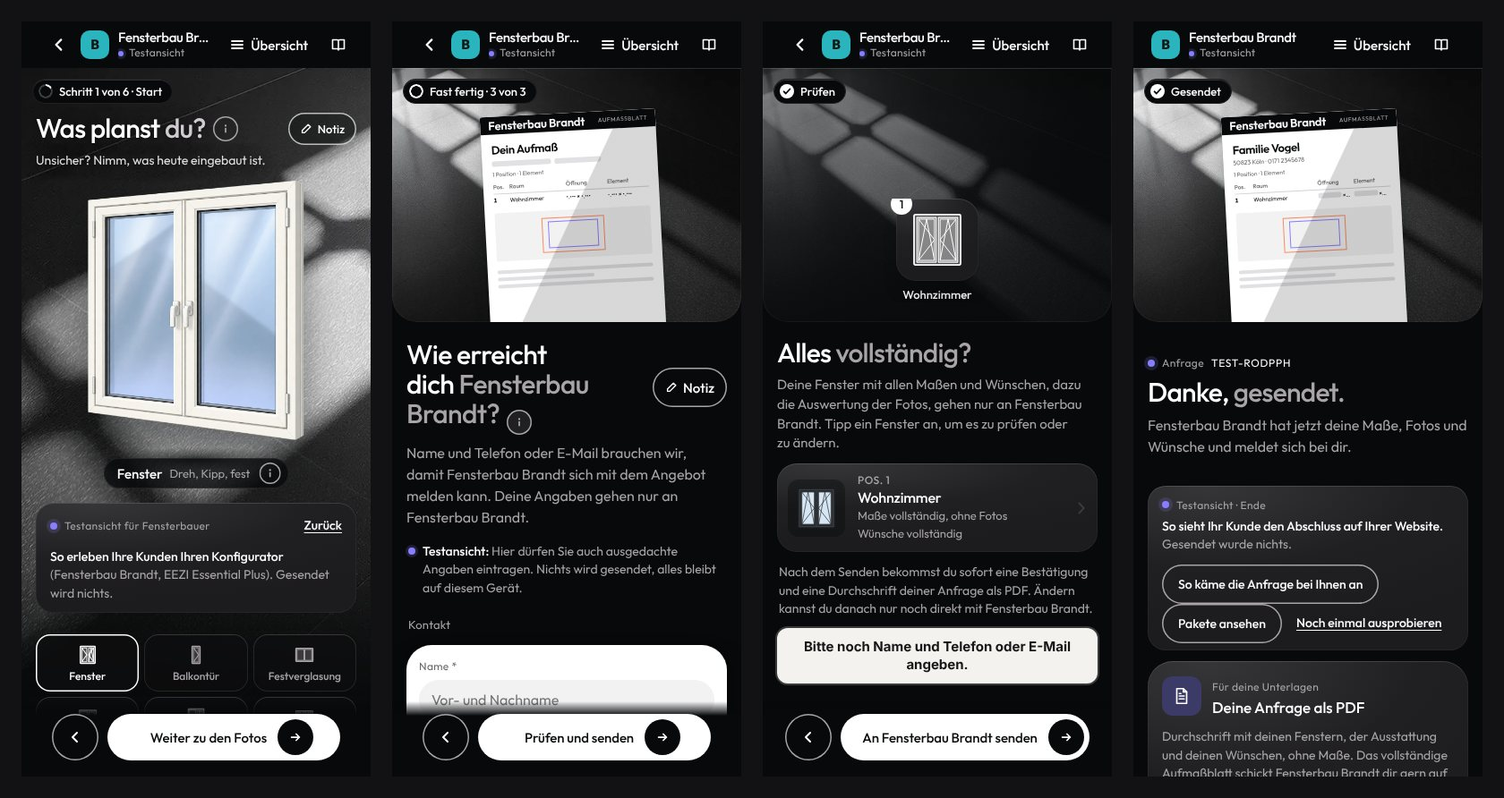
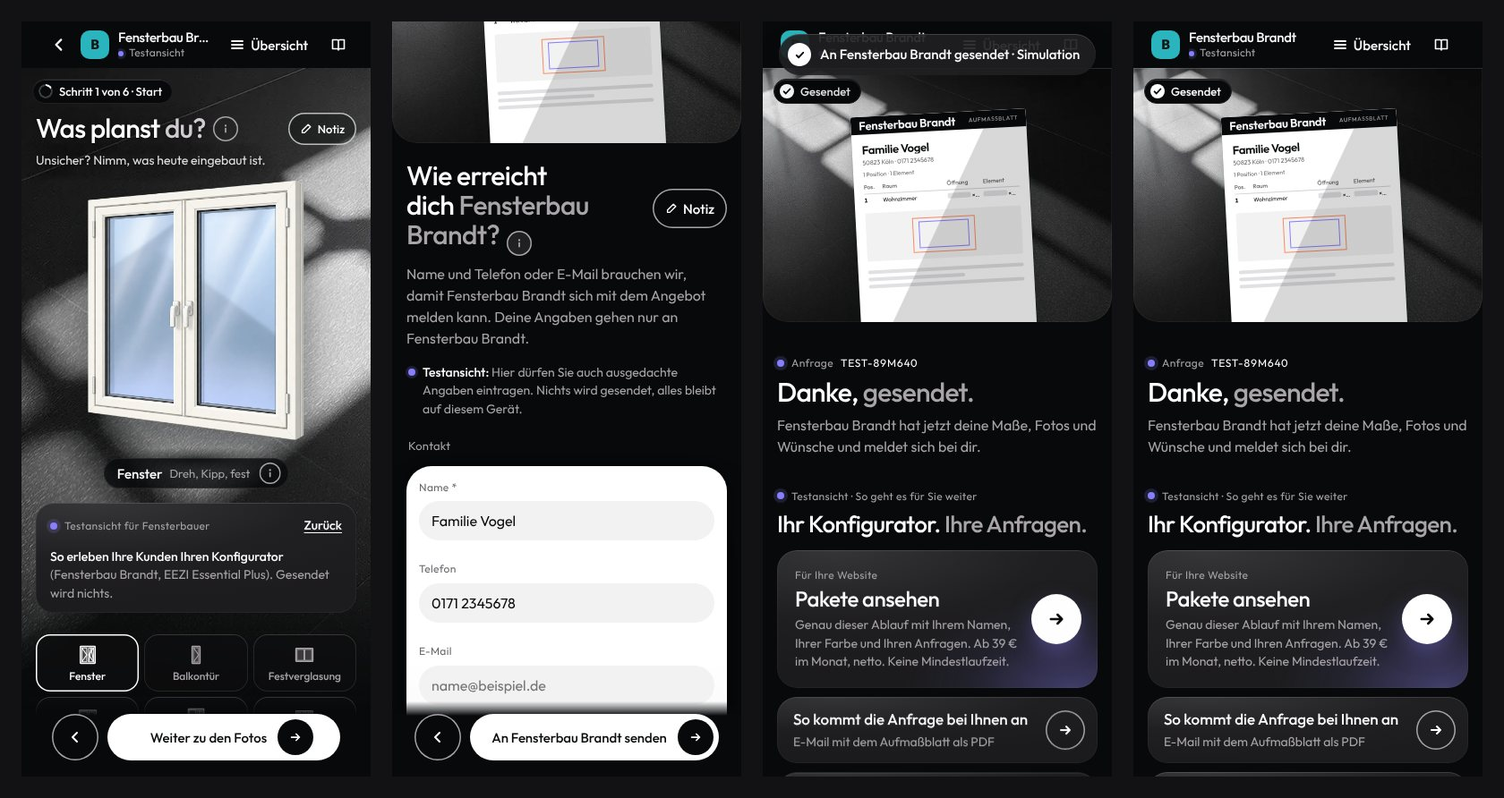
Kontakt ist die letzte Folie, Versandmeldung, Auswahl für Fensterbauer am Ende
- Website einer Instanz: Die Kontaktfolie sendet direkt („An <Betrieb> senden“);
  fehlende Maße, angefangenes Fenster und was danach kommt stehen auf ihr
  (Inhaber: „Eigentlich ist das hier die letzte Folie“)
- Nach dem Senden „Wird gesendet …“ und eine Versandmeldung als Glas-Chip oben
- Testansicht, Ende: „Ihr Konfigurator. Ihre Anfragen.“ mit großer Karte
  „Pakete ansehen“ (#pakete, Preis aus pakete.js), „So kommt die Anfrage bei
  Ihnen an“, „Noch einmal ausprobieren“; „Fertig“ führt zu den Paketen
- Prüfungen 25.2 und 25.11 angepasst, Doku und Protokoll nachgezogen

Claude-Session: https://claude.ai/code/session_0184P5fGdniWcDaYecSm6W1G

Changed region(s): [[0.2476, 0.0, 0.9905, 0.9989], [0.8357, 0.454, 0.8667, 0.4843]]

diff --git a/web/assets/app.js b/web/assets/app.js
@@ -3155,7 +3155,7 @@ function startDna() {
     OPT.situation.map((x) => { const an = (x.k === 'neu') === neu; return '<button type="button" role="radio" data-act="situation" data-v="' + x.k + '" aria-checked="' + an + '" tabindex="' + (an ? 0 : -1) + '">' + esc(x.label) + '</button>'; }).join('') + '</div>' +
     '<p class="st-stelle-text" aria-live="polite">' + ST_STELLE[neu ? 'neu' : 'ersatz'] + (neu ? ' <button type="button" class="ulink" data-act="gloss" data-k="neuoeffnung">Mehr erfahren</button>' : '') + '</p></div></div>';
   const fuss = '<div class="lg-fuss"><button type="button" class="lg-zurueck" data-act="back" aria-label="Zurück: Aufmaß">' + LG_PFEIL_L + '</button><button type="button" class="dna-pille lg-weiter" data-act="go" data-v="fotos">Weiter zu den Fotos' + pfeil + '</button></div>';
-  return { html: '<svg class="st-sprite" width="0" height="0" aria-hidden="true" focusable="false">' + ST_ZEICHEN + '</svg>' + lgKopf(['back', 'Zurück: Aufmaß']) + '<div class="st-tisch">' + buehne + '<div class="st-rechts">' + probeInfo('start') + bento + stelle + rechtLinks() + fuss + '</div></div>', back: ['Aufmaß', 'home'], dna: true, cls: 'dna st', voll: true };
+  return { html: '<svg class="st-sprite" width="0" height="0" aria-hidden="true" focusable="false">' + ST_ZEICHEN + '</svg>' + lgKopf(['back', 'Zurück: Aufmaß']) + '<div class="st-tisch">' + buehne + '<div class="st-rechts">' + probeInfo() + bento + stelle + rechtLinks() + fuss + '</div></div>', back: ['Aufmaß', 'home'], dna: true, cls: 'dna st', voll: true };
 }
 /* Nach dem Zeichnen: Wechsel erst einblenden, wenn das neue Bild bereit ist; Wischen an die Bühne binden */
 function stZeigen() {
@@ -5662,7 +5662,7 @@ function sheetsHTML() {
   if (S.fotoGross) return fotoBlatt();
   if (S.notiz) return notizBlatt();
   if (S.verlassen) return verlassenBlatt();
-  if (S.sendeFrage && S.screen === 'blatt') return sendeFrageBlatt();
+  if (S.sendeFrage && (S.screen === 'blatt' || S.screen === 'anfrage3')) return sendeFrageBlatt();
   if (S.gloss && GLOSS[S.gloss]) return glossBlatt();
   if (S.glossIndex) return glossIndexBlatt();
   if (S.wohin) return wohinBlatt();
@@ -7082,6 +7082,7 @@ function act(name, el) {
     case 'inst-geraet': { S.instGeraet = !S.instGeraet; return render(); }
     case 'inst-link-kopieren': { const t = instWeiterLink(); try { navigator.clipboard.writeText(t).then(() => toast('Link kopiert.'), () => toast('Kopieren geht hier nicht. Bitte den Link markieren und kopieren.')); } catch (e) { toast('Kopieren geht hier nicht. Bitte den Link markieren und kopieren.'); } return; }
     case 'inst-link-teilen': { const t = instWeiterLink(); if (navigator.share) { navigator.share({ title: 'Fensterplanung bei ' + (INST.name || ''), url: t }).catch(() => {}); return; } return toast('Teilen geht hier nicht. Bitte den Link kopieren.'); }
+    case 'kontakt-senden': { const f = kontaktPruefen(); if (f.fehlt) { S.kontaktFehler = Object.assign(f, { alle: true }); render(); const el = document.querySelector('.trow.bad input'); if (el) try { el.focus(); } catch (e) { /* ok */ } return toast('Bitte noch Name und Telefon oder E-Mail angeben.'); } S.kontaktFehler = null; return act('send', el); } // Kontakt ist die letzte Folie (Instanz, Website)
     case 'kontakt-weiter': { const f = kontaktPruefen(); if (f.fehlt) { S.kontaktFehler = Object.assign(f, { alle: true }); render(); const el = document.querySelector('.trow.bad input'); if (el) try { el.focus(); } catch (e) { /* ok */ } return toast('Bitte noch Name und Telefon oder E-Mail angeben.'); } S.kontaktFehler = null; return go('blatt'); }
     case 'open': return fensterOeffnen(+el.getAttribute('data-i'));
     case 'delwin': { if (!linkOffen()) return; if (S.editIdx < 0 || !S.windows[S.editIdx]) { S.editIdx = -1; go('home', 'back'); return toast('Dieses Fenster gibt es nicht mehr.'); } const weg = S.windows[S.editIdx]; if (weg.wid) { S.sync.geloescht[weg.wid] = zeit(); const alle = Object.keys(S.sync.geloescht); if (alle.length > 200) alle.sort((a, b) => S.sync.geloescht[a] - S.sync.geloescht[b]).slice(0, alle.length - 200).forEach((k) => { delete S.sync.geloescht[k]; }); } S.angelegt = angelegt(); S.windows.splice(S.editIdx, 1); S.editIdx = -1; persist(); entwurfWeg(weg.wid); Fotos.weg(bilderVon(weg).filter((id) => !S.windows.some((x) => bilderVon(x).includes(id)))); toast('Fenster gelöscht'); return go('home', 'back'); }
@@ -7714,7 +7715,9 @@ function kontaktFeld(label, field, ph, mode, auto, fehler, pflicht) {
 }
 /* Kontakt auf der Website einer Instanz im Look der Design-DNA (28.10.2026, Inhaber: „Das passt ja nicht überein. Nimm das neue Design“):
    wie anfrage3Dna (Bühne mit dem Blatt, das sich beim Tippen füllt, Kopfband mit dem Namen des Betriebs), aber mit Pflicht: Name und
-   Telefon oder E-Mail (kontaktPruefen, Fehler am Feld), „Prüfen und senden“ (kontakt-weiter). Texte und Prüfung wie bisher */
+   Telefon oder E-Mail (kontaktPruefen, Fehler am Feld). Sie ist die letzte Folie (Inhaber: „Eigentlich ist das hier die letzte Folie und
+   da sollte stehen: an Fensterbauer schicken“; die DNA kennt keine Zwischenschritte, die nur bestätigen): Die Pille sendet
+   (kontakt-senden); was „Prüfen und senden“ zeigte, steht hier: Fenster ohne vollständige Maße, angefangenes Fenster, was danach kommt */
 function instAnfrage3() {
   const pr = S.proj, d = lkDaten(), bn = d.name, C = window.KONFIG || {};
   const f = S.kontaktFehler ? Object.assign(kontaktPruefen(), { alle: true }) : {};
@@ -7723,7 +7726,12 @@ function instAnfrage3() {
   const karte = '<div class="qpanel ab-panel"><div class="ab-teil">' + abKopf('Kontakt') + '<div class="rows ab-felder kontakt-felder">' + kontaktFeld('Name', 'name', 'Vor- und Nachname', 'text', 'name', f.name, true) + kontaktFeld('Telefon', 'tel', 'Für Rückfragen', 'tel', 'tel', f.tel || !!f.weg, false) + kontaktFeld('E-Mail', 'mail', 'name@beispiel.de', 'email', 'email', f.mail || f.weg, false) +
     kontaktFeld('PLZ und Ort', 'ort', 'z. B. 50667 Köln', 'text', 'postal-code address-level2', '', false) + '</div><p class="ab-pflicht">* Pflicht. Dazu Telefon oder E-Mail, eins genügt. Mehr im <a class="ulink" href="' + esc(C.datenschutz || '/datenschutz/') + '" target="_blank" rel="noopener">Datenschutz</a>.</p></div>' +
     '<div class="ab-teil">' + abKopf('Am besten erreichbar · freiwillig') + chips('erreich', pr.erreich, 'erreich', 'setp') + '</div></div>';
-  return { html: lgKopf(['back', 'Zurück: Zeit und Budget']) + dnaTisch(abBuehne('ab-blatt', anfrageHead(3, true), abPapier(false, false, bn)), frage + probe + karte + abFuss('Zurück: Zeit und Budget', 'kontakt-weiter', '', 'Prüfen und senden')), back: ['Zurück', 'anfrage2'], dna: true, cls: 'dna ab dt', voll: true };
+  const voll = S.windows.filter((x) => derive(x).complete).length, fehlt = S.windows.length - voll;
+  const hinweis = (fehlt ? '<p class="ab-note">' + (voll ? fehlt + (fehlt === 1 ? ' Fenster hat' : ' Fenster haben') + ' noch keine vollständigen Maße. ' + anr('Sie können', 'Du kannst') + ' trotzdem senden, ' + esc(bn) + ' sieht dann, was fehlt.' : anr('Noch kein Fenster ist vollständig gemessen. Tragen Sie die fehlenden Maße nach, dann können Sie senden.', 'Noch kein Fenster ist vollständig gemessen. Trag die fehlenden Maße nach, dann kannst du senden.')) + ' <button type="button" class="ulink" data-act="go" data-v="home">Fenster ansehen</button></p>' : '') + entwurfWarnung() +
+    '<p class="ab-danach">' + anr('Nach dem Senden bekommen Sie', 'Nach dem Senden bekommst du') + ' sofort eine Bestätigung' + (INST_M.kopieKunde ? anr(' und eine Durchschrift Ihrer Anfrage als PDF', ' und eine Durchschrift deiner Anfrage als PDF') : '') + '. ' + anr('Ändern können Sie', 'Ändern kannst du') + ' danach nur noch direkt mit ' + esc(bn) + '.</p>';
+  const wartet = S.kiWartet === 'senden', label = wartet ? esc(S.warteText || 'Einen Moment …') : 'An ' + esc(bn) + ' senden';
+  const fuss = rechtLinks() + '<div class="lg-fuss"><button type="button" class="lg-zurueck" data-act="back" aria-label="Zurück: Zeit und Budget">' + LG_PFEIL_L + '</button><button type="button" class="dna-pille lg-weiter btn primary" data-act="kontakt-senden"' + (wartet ? ' disabled aria-busy="true"' : '') + '>' + label + (wartet ? '' : abPfeil) + '</button></div>';
+  return { html: lgKopf(['back', 'Zurück: Zeit und Budget']) + dnaTisch(abBuehne('ab-blatt', anfrageHead(3, true), abPapier(false, false, bn)), frage + probe + karte + hinweis + fuss), back: ['Zurück', 'anfrage2'], dna: true, cls: 'dna ab dt', voll: true };
 }
 /* „Auf anderem Gerät weitermachen“: dieselbe Planung über https://<host>/#k-<code> */
 const instWeiterLink = () => location.origin + '/#k-' + (S.betrieb ? S.betrieb.code : '');
@@ -7743,12 +7751,27 @@ function probeEinstieg() {
   if (S.sent) instanzVergessen(true);
   if (entwurfLesen()) entwurfFortsetzen(); else act('new', document.body);
 }
-/* Infobereich der Testansicht in der Folie selbst: auf der ersten Folie („start“) und auf der Bestätigung („ende“) */
-function probeInfo(art) {
+/* Infobereich der Testansicht in der ersten Folie */
+function probeInfo() {
   if (!PROBE) return '';
-  if (art === 'ende') return '<section class="probe-info" aria-label="Testansicht für Fensterbauer"><span class="dna-label">Testansicht · Ende</span><p><b>So sieht Ihr Kunde den Abschluss auf Ihrer Website.</b> Gesendet wurde nichts.</p>' +
-    '<div class="probe-info-knoepfe"><button type="button" class="dna-pille dna-pille--leise" data-act="probe-betrieb">So käme die Anfrage bei Ihnen an</button><a class="dna-pille dna-pille--leise" href="' + PROBE_FB + '#pakete">Pakete ansehen</a><button type="button" class="probe-info-link" data-act="probe-neu">Noch einmal ausprobieren</button></div></section>';
   return '<section class="probe-info kurz" aria-label="Testansicht für Fensterbauer"><div class="probe-info-zeile"><span class="dna-label">Testansicht für Fensterbauer</span><a class="probe-info-link" href="' + PROBE_FB + '" aria-label="Zurück zur Seite für Fensterbauer">Zurück</a></div><p><b>So erleben Ihre Kunden Ihren Konfigurator</b> (Fensterbau Brandt, ' + esc(probePaketName()) + '). Gesendet wird nichts.</p></section>';
+}
+/* Testansicht, Ende (Inhaber, 28.10.2026: „Auswahlmöglichkeiten, wie man jetzt weitermacht, visuell ansprechend, dass die Fensterbauer
+   animiert werden, zu den Paketen zu kommen“): unter „Danke, gesendet.“ drei Karten für den Fensterbauer, die erste groß mit Licht und
+   rundem Knopf zur Seite für Fensterbauer (#pakete, Preis aus pakete.js), dann „So kommt die Anfrage bei Ihnen an“ (E-Mail und
+   Aufmaßblatt) und „Noch einmal ausprobieren“. Nach dem Senden treten sie nacheinander auf (einmal, nicht bei jedem Neuzeichnen). */
+function probeWahl(frisch) {
+  if (!PROBE) return '';
+  const P = window.Pakete; let ab = '';
+  try { const m = Math.min.apply(null, P.LISTE.map((k) => P.preis(k).monat)); if (isFinite(m)) ab = 'Ab ' + P.euro(m) + ' im Monat, netto. '; } catch (e) { ab = ''; }
+  const pfeil = '<svg viewBox="0 0 16 16" fill="none" stroke="currentColor" stroke-width="2" stroke-linecap="round" stroke-linejoin="round"><path d="M3 8h10M9 4l4 4-4 4"/></svg>';
+  const neu = '<svg viewBox="0 0 16 16" fill="none" stroke="currentColor" stroke-width="1.8" stroke-linecap="round" stroke-linejoin="round"><path d="M2.8 8a5.2 5.2 0 1 0 1.6-3.8"/><path d="M2.6 2.4v2.8h2.8"/></svg>';
+  const karte = (i, tag, attr, cls, klein, titel, text, knopf) => '<' + tag + ' class="pw-karte' + cls + '" ' + attr + ' style="--i: ' + i + '"><span class="pw-text">' + (klein ? '<small>' + klein + '</small>' : '') + '<b>' + titel + '</b><span>' + text + '</span></span><span class="pw-knopf" aria-hidden="true">' + knopf + '</span></' + tag + '>';
+  return '<section class="probe-wahl' + (frisch ? ' auftritt' : '') + '" aria-label="So geht es für Sie weiter"><span class="dna-label">Testansicht · So geht es für Sie weiter</span><h2>Ihr Konfigurator. <span class="ak">Ihre Anfragen.</span></h2>' +
+    karte(0, 'a', 'href="' + PROBE_FB + '#pakete"', ' pw-haupt', 'Für Ihre Website', 'Pakete ansehen', 'Genau dieser Ablauf mit Ihrem Namen, Ihrer Farbe und Ihren Anfragen. ' + esc(ab) + 'Keine Mindestlaufzeit.', pfeil) +
+    karte(1, 'button', 'type="button" data-act="probe-betrieb"', '', '', 'So kommt die Anfrage bei Ihnen an', 'E-Mail mit dem Aufmaßblatt als PDF', pfeil) +
+    karte(2, 'button', 'type="button" data-act="probe-neu"', '', '', 'Noch einmal ausprobieren', 'Von vorn, mit einem neuen Fenster', neu) +
+    '<p class="pw-fuss">Gesendet wurde nichts. Darunter sehen Sie den Abschluss so, wie ihn Ihr Kunde sieht.</p></section>';
 }
 /* Startseite einer Instanz in allen Zuständen (erste Seite, Liste, gesendet, Planung nicht mehr da, Nachbesserung einer Einladung) */
 function instHome() {
@@ -7806,9 +7829,14 @@ function instZuSeite() {
    verlässt das Gerät. Danach zwei Ansichten auf derselben Folie (sonst räumt render die Planung weg, instanzKuerzen): erst die
    Bestätigung, wie sie der Kunde sieht, dann, wie die Anfrage beim Betrieb ankommt (E-Mail mit dem Aufmaßblatt als PDF). */
 function probeSenden() {
-  S.sent = { when: Date.now(), code: packProject(S.windows, S.proj, S.betrieb), runde: 1, uebertragen: true, nr: 'TEST-' + String(S.betrieb.code || '').slice(1, 7).toUpperCase(), art: 'probe' };
-  S.nb = null; S._feier = 'gesendet'; S.toast = ''; clearTimeout(toastTimer); S.probeSicht = 'kunde';
-  persist(); go('gesendet');
+  if (S.kiWartet) return;
+  S.kiWartet = 'senden'; S.warteText = 'Wird gesendet …'; render(); // wie beim echten Senden ein kurzer Moment
+  setTimeout(() => {
+    S.kiWartet = ''; S.warteText = '';
+    S.sent = { when: Date.now(), code: packProject(S.windows, S.proj, S.betrieb), runde: 1, uebertragen: true, nr: 'TEST-' + String(S.betrieb.code || '').slice(1, 7).toUpperCase(), art: 'probe' };
+    S.nb = null; S._feier = 'gesendet'; S.toast = ''; clearTimeout(toastTimer); S.probeSicht = 'kunde'; S.sendMeldung = Date.now();
+    persist(); go('gesendet');
+  }, 700);
 }
 function probeGesendet() {
   if (!S.sent || S.sent.kurz) return instHome();
@@ -7871,8 +7899,12 @@ function instGesendet() {
     (tel || mail ? '<div class="gs-k-reihe">' + (tel ? rund('tel:' + telH, IC_TEL, tel) : '') + (mail ? rund('mailto:' + mail, IC_MAIL, mail) : '') + '</div>' : '<p>' + esc(name) + T(' meldet sich nach Ihrer Anfrage bei Ihnen.', ' meldet sich nach deiner Anfrage bei dir.') + '</p>') + '</section>';
   const geraet = '<section class="gs-geraet"><span class="dna-label">Auf diesem Gerät</span><p>' + T('Sobald Sie diese Seite verlassen oder schließen, löschen wir Maße, Fotos und Kontaktdaten von diesem Gerät. Es bleiben nur Nummer und Datum Ihrer Anfrage.', 'Sobald du diese Seite verlässt oder schließt, löschen wir Maße, Fotos und Kontaktdaten von diesem Gerät. Es bleiben nur Nummer und Datum deiner Anfrage.') + '</p>' +
     '<div class="gs-geraet-knoepfe"><button type="button" class="dna-pille dna-pille--leise" data-act="inst-weitere">Weitere Anfrage starten</button><button type="button" class="probe-info-link" data-act="inst-vergessen">Jetzt von diesem Gerät löschen</button></div><p class="gs-bleibt">' + T('Ihre Anfrage bei ', 'Deine Anfrage bei ') + esc(name) + ' bleibt bestehen.</p></section>';
-  const fertig = PROBE ? '<a class="dna-pille dna-pille--leise" href="' + PROBE_FB + '">Fertig</a>' : '<button type="button" class="dna-pille dna-pille--leise" data-act="go" data-v="home">Fertig</button>';
-  const inhalt = titel + testNote + probeInfo('ende') + pdf + weiter + kontakt + geraet;
+  const fertig = PROBE ? '<a class="dna-pille dna-pille--leise" href="' + PROBE_FB + '#pakete">Fertig</a>' : '<button type="button" class="dna-pille dna-pille--leise" data-act="go" data-v="home">Fertig</button>';
+  /* Versandmeldung oben (Inhaber: „dann sollte da diese Benachrichtigung stehen, dass es versandt wurde“): drei Sekunden nach dem Senden,
+     über Neuzeichnen hinweg an derselben Stelle der Animation (--seit) */
+  const seit = S.sendMeldung ? Date.now() - S.sendMeldung : 1e9;
+  const meldung = seit < 3000 ? '<div class="gs-meldung" role="status" style="--seit: -' + seit + 'ms"><span class="gs-meldung-haken" aria-hidden="true"><svg viewBox="0 0 12 12"><path d="M2.6 6.3l2.2 2.2 4.6-5" fill="none" stroke="currentColor" stroke-width="1.8" stroke-linecap="round" stroke-linejoin="round"/></svg></span><span>An ' + esc(name) + ' gesendet' + (PROBE ? ' · Simulation' : '') + '</span></div>' : '';
+  const inhalt = meldung + titel + testNote + probeWahl(seit < 3000) + pdf + weiter + kontakt + geraet;
   return { html: lgKopf(false) + dnaTisch(buehne, '<div class="ab-inhalt">' + inhalt + '<div class="gs-fuss">' + fertig + '</div></div>' + rechtLinks()), dna: true, cls: 'dna ab ab2 dt gs', voll: true, bar: null };
 }
 /* Logo der Instanz fürs PDF: Bild von /marke/<v>/logo.png als Data-URL mit Maßen */
@@ -8023,7 +8055,7 @@ async function sendenServer() {
     if (!r || !r.ok) return toast(r && r.fehler ? r.fehler : 'Senden hat nicht geklappt. Bitte gleich noch einmal.');
     clearTimeout(S.sync.timer); S.sync.offen = false;
     S.sent = { when: Date.now(), code: packProject(S.windows, S.proj, S.betrieb), runde: S.nb && S.nb.runde ? S.nb.runde : 1, uebertragen: true }; S.nb = null; S._feier = 'gesendet'; S.toast = ''; clearTimeout(toastTimer);
-    if (INST) { S.sent.nr = String(r.nr || ''); S.sent.art = String(r.art || ''); instGesendetMerken(S.sent.nr, S.sent.when, S.sent.art); }
+    if (INST) { S.sent.nr = String(r.nr || ''); S.sent.art = String(r.art || ''); instGesendetMerken(S.sent.nr, S.sent.when, S.sent.art); S.sendMeldung = Date.now(); }
     persist(); go('gesendet');
   } catch (e) { toast('Keine Verbindung. Bitte gleich noch einmal.'); }
 }

diff --git a/web/assets/app.css b/web/assets/app.css
@@ -3120,6 +3120,42 @@ html.dna-voll .fb .qoffen[aria-pressed="true"] { box-shadow: inset 0 0 0 1.5px v
 .dna.gs .gs-fuss .dna-pille { flex: 1 }
 .dna.gs .gs-bleibt { font-size: 13px }
 .dna.gs .wl-station:first-child .wl-nr { color: var(--weiss); background: none; box-shadow: inset 0 0 0 1.5px var(--silbergrau) } /* nichts ist schon erledigt */
+/* Versandmeldung nach dem Senden: Glas-Chip oben in der Mitte, kommt in 320 ms, steht, geht nach drei Sekunden (einmal je Senden) */
+.dna .gs-meldung { position: fixed; z-index: 30; top: calc(14px + env(safe-area-inset-top, 0px)); left: 0; right: 0; width: max-content; margin-inline: auto; display: flex; align-items: center; gap: 10px; max-width: calc(100% - 32px); padding: 10px 18px 10px 10px; border-radius: 999px; background: rgba(32, 32, 34, .92); color: var(--weiss); font: 500 15px/1.2 var(--font-sans); box-shadow: inset 0 1px 0 rgba(255, 255, 255, .16), 0 18px 40px -16px rgba(0, 0, 0, .9); opacity: 0; pointer-events: none; animation: gsMeldung 3s var(--dna-auftritt) both; animation-delay: var(--seit, 0ms) }
+.dna.ab2 .ab-inhalt > .gs-meldung { margin: 0 auto } /* sonst setzt .ab-inhalt > * den Rand auf 0 und die Meldung steht links */
+.dna .gs-meldung-haken { flex: none; display: grid; place-items: center; width: 26px; height: 26px; border-radius: 50%; background: var(--weiss); color: var(--schwarz) }
+.dna .gs-meldung-haken svg { width: 13px; height: 13px }
+@keyframes gsMeldung { 0% { opacity: 0; transform: translateY(-14px) scale(.96) } 11% { opacity: 1; transform: none } 82% { opacity: 1; transform: none } 100% { opacity: 0; transform: translateY(-6px) } }
+@keyframes gsMeldungRuhig { 0%, 100% { opacity: 0 } 3%, 85% { opacity: 1 } }
+/* Testansicht, Ende: drei Karten für den Fensterbauer, die erste groß mit Licht unter dem Knopf */
+.dna.gs .probe-wahl { display: grid; gap: 10px; margin: 8px 0 4px }
+.dna.gs .probe-wahl .dna-label { display: inline-flex; align-items: center; gap: 8px; font: 400 12px/1.3 var(--font-sans); letter-spacing: .03em; color: var(--silbergrau) }
+.dna.gs .probe-wahl .dna-label::before { content: ""; width: 8px; height: 8px; border-radius: 50%; background: var(--violett); box-shadow: 0 0 0 4px rgba(137, 126, 252, .18) }
+.dna.gs .probe-wahl h2 { margin: 0 0 4px; font: 500 26px/1.1 var(--font-sans); letter-spacing: -.025em; color: var(--weiss) }
+.dna.gs .probe-wahl h2 .ak { color: var(--silbergrau) }
+.dna.gs .pw-karte { position: relative; display: flex; align-items: center; gap: 14px; width: 100%; min-height: 72px; margin: 0; padding: 14px 14px 14px 18px; border: 0; border-radius: 22px; text-align: left; text-decoration: none; color: var(--weiss); font: inherit; cursor: pointer; overflow: hidden;
+  background: radial-gradient(120% 90% at 18% 0%, #363638, var(--anthrazit) 55%, #1c1c1e); box-shadow: inset 0 1px 0 rgba(255, 255, 255, .10), inset 0 0 0 1px rgba(255, 255, 255, .045); transition: transform 160ms var(--dna-druck) }
+.dna.gs .pw-karte:active { transform: scale(.98); transition-duration: 0s }
+.dna.gs .pw-karte:focus-visible { outline: 2px solid var(--weiss); outline-offset: 3px }
+.dna.gs .pw-haupt { min-height: 128px; padding: 20px 18px 20px 20px; background: radial-gradient(70% 90% at 92% 100%, rgba(137, 126, 252, .34), rgba(60, 58, 102, .22) 45%, transparent 75%), radial-gradient(120% 90% at 18% 0%, #363638, var(--anthrazit) 55%, #1c1c1e) }
+.dna.gs .pw-text { flex: 1; display: grid; gap: 4px; min-width: 0 }
+.dna.gs .pw-text small { font: 400 12px/1.3 var(--font-sans); letter-spacing: .03em; color: var(--silbergrau) }
+.dna.gs .pw-text b { font: 500 17px/1.25 var(--font-sans); color: var(--weiss) }
+.dna.gs .pw-haupt .pw-text b { font-size: 24px; letter-spacing: -.02em }
+.dna.gs .pw-text > span { font: 400 14px/1.45 var(--font-sans); color: var(--silbergrau) }
+.dna.gs .pw-knopf { flex: none; display: grid; place-items: center; width: 44px; height: 44px; border-radius: 50%; color: var(--weiss); box-shadow: inset 0 0 0 1.5px var(--silbergrau) }
+.dna.gs .pw-knopf svg { width: 16px; height: 16px }
+.dna.gs .pw-haupt .pw-knopf { width: 56px; height: 56px; background: var(--weiss); color: var(--schwarz); box-shadow: 0 10px 30px -8px rgba(137, 126, 252, .7) }
+.dna.gs .pw-haupt .pw-knopf svg { width: 20px; height: 20px }
+.dna.gs .pw-fuss { margin: 2px 2px 8px; font: 400 13px/1.45 var(--font-sans); color: var(--silbergrau) }
+.dna.gs .probe-wahl.auftritt .pw-karte { animation: pwAuf 460ms var(--dna-auftritt) both; animation-delay: calc(450ms + var(--i, 0) * 90ms) }
+@keyframes pwAuf { from { opacity: 0; transform: translateY(10px) } to { opacity: 1; transform: none } }
+@media (prefers-reduced-motion: reduce) {
+  .dna .gs-meldung { animation-name: gsMeldungRuhig }
+  .dna.gs .probe-wahl.auftritt .pw-karte { animation: none }
+  .dna.gs .pw-karte { transition: none }
+}
+.dna .ab-danach { margin: 14px 4px 0; font: 400 13px/1.45 var(--font-sans); color: var(--silbergrau) }
 /* Kontakt einer Instanz (instAnfrage3): Pflicht und Fehler am Feld */
 .dna .ab-felder .trow .pfl { font-style: normal; color: var(--textgrau) }
 .dna .ab-felder .trow.bad > span, .dna .ab-felder .trow.bad > span .pfl { color: #b5532f }

diff --git a/docs/INSTANZEN.md b/docs/INSTANZEN.md
@@ -323,9 +323,9 @@ Signature: Die Mails an den Betrieb kommen vom neutralen Postfach `MAIL_ABSENDER
 Demo-Instanzen der Verkaufsseite: Custom Domains `demo-essential.eeziframes.com`, `demo-plus.eeziframes.com`, `demo-signature.eeziframes.com` am Worker, in der Zentrale je eine Instanz ohne Bestellung mit Schalter „Demo“ (Anfragen gehen an `MAIL_KONTAKT` und verschwinden nach `FRISTEN.testTage` Tag). Die Verkaufsseite verlinkt sie erst mit der Variable `PAKETE_DEMOS=1`, vorher führt „Konfigurator ausprobieren“ in die App.
 
 
-Testansicht für Fensterbauer (28.10.2026, Wunsch des Inhabers: jeder Weg zum Ausprobieren auf der Seite für Fensterbauer führt in einen Bereich, der erkennbar zum Testen da ist; am Ende der Abschluss, wie ihn der Kunde eines Betriebs mit gebuchtem Paket sieht): „Selbst ausprobieren“ auf der Seite für Fensterbauer und „Konfigurator ausprobieren“ in deren Ratgebern führen auf `/app/?ausprobieren` (Paket Plus), „Fenster planen“ in den drei Paket-Beispielen auf `/app/?ausprobieren=essential|plus|signature` (docs/profis/werkzeuge/paketvorlagen.py, `fuer_web`). Die App läuft dann im Instanz-Modus als Fensterbau Brandt, der erfundene Betrieb der Beispiele, in der Anrede „du“ wie die Folien, mit den öffentlichen Merkmalen des Pakets aus pakete.js (die App lädt dafür /assets/pakete.js) und der Firmenfarbe Aquatürkis, wo das Paket eine Farbe hat (`PROBE`, `PROBE_PAKET` in web/assets/app.js setzen `KONFIG.instanz` vor `INST`), ohne Führung und ohne Kauf. Alles bleibt im Browser: kein `/api/status`, kein Code vom Server (`instanzStart` vergibt ihn auf dem Gerät), kein Zwischenstand, keine Fotos hinauf, KI ohne Code wie auf der Hauptdomain. Sie beginnt gleich auf der ersten Folie „Was planst du?“ (`probeEinstieg`; ein angefangenes Fenster wird fortgesetzt, ein abgeschlossener Test beginnt neu). Erkennbar ist die Testansicht am Infobereich in dieser Folie (`probeInfo('start')`: Beispielbetrieb, Paket, „gesendet wird nichts“, Weg zurück), an „Testansicht“ unter dem Namen im Kopf jeder Folie, an einer Zeile auf der Folie mit den Kontaktdaten und am Eintrag „Testansicht beenden“ in der Übersicht; Bogen und Karten über der Startseite des Betriebs gibt es nicht (Inhaber: „Diese Ansicht will ich nicht“). Senden ist eine Simulation (`probeSenden`, Nummer `TEST-…`); das Ende ist die Bestätigung, wie sie der Kunde sieht (`instGesendet`, seit 28.10.2026 im Look der Design-DNA für alle Instanzen), mit dem Infobereich „Testansicht · Ende“ unter der Überschrift („Pakete ansehen“, „So käme die Anfrage bei Ihnen an“: die E-Mail an den Betrieb mit dem Aufmaßblatt in der Variante `betrieb` als PDF, `probeBlatt`; „Noch einmal ausprobieren“); „Fertig“ führt dort zurück zur Seite für Fensterbauer. Auf einer echten Instanz (KONFIG.instanz vom Server) gibt es die Testansicht nicht.
+Testansicht für Fensterbauer (28.10.2026, Wunsch des Inhabers: jeder Weg zum Ausprobieren auf der Seite für Fensterbauer führt in einen Bereich, der erkennbar zum Testen da ist; am Ende der Abschluss, wie ihn der Kunde eines Betriebs mit gebuchtem Paket sieht): „Selbst ausprobieren“ auf der Seite für Fensterbauer und „Konfigurator ausprobieren“ in deren Ratgebern führen auf `/app/?ausprobieren` (Paket Plus), „Fenster planen“ in den drei Paket-Beispielen auf `/app/?ausprobieren=essential|plus|signature` (docs/profis/werkzeuge/paketvorlagen.py, `fuer_web`). Die App läuft dann im Instanz-Modus als Fensterbau Brandt, der erfundene Betrieb der Beispiele, in der Anrede „du“ wie die Folien, mit den öffentlichen Merkmalen des Pakets aus pakete.js (die App lädt dafür /assets/pakete.js) und der Firmenfarbe Aquatürkis, wo das Paket eine Farbe hat (`PROBE`, `PROBE_PAKET` in web/assets/app.js setzen `KONFIG.instanz` vor `INST`), ohne Führung und ohne Kauf. Alles bleibt im Browser: kein `/api/status`, kein Code vom Server (`instanzStart` vergibt ihn auf dem Gerät), kein Zwischenstand, keine Fotos hinauf, KI ohne Code wie auf der Hauptdomain. Sie beginnt gleich auf der ersten Folie „Was planst du?“ (`probeEinstieg`; ein angefangenes Fenster wird fortgesetzt, ein abgeschlossener Test beginnt neu). Erkennbar ist die Testansicht am Infobereich in dieser Folie (`probeInfo('start')`: Beispielbetrieb, Paket, „gesendet wird nichts“, Weg zurück), an „Testansicht“ unter dem Namen im Kopf jeder Folie, an einer Zeile auf der Folie mit den Kontaktdaten und am Eintrag „Testansicht beenden“ in der Übersicht; Bogen und Karten über der Startseite des Betriebs gibt es nicht (Inhaber: „Diese Ansicht will ich nicht“). Senden ist eine Simulation (`probeSenden`, Nummer `TEST-…`); vor der Bestätigung ein kurzes „Wird gesendet …“ und die Versandmeldung „An Fensterbau Brandt gesendet · Simulation“; das Ende ist die Bestätigung, wie sie der Kunde sieht (`instGesendet`, seit 28.10.2026 im Look der Design-DNA für alle Instanzen), mit der Auswahl für den Fensterbauer unter der Überschrift (`probeWahl`: große Karte „Pakete ansehen“ zur Seite für Fensterbauer, Anker #pakete, mit dem Preis „ab … im Monat“ aus pakete.js; „So kommt die Anfrage bei Ihnen an“: die E-Mail an den Betrieb mit dem Aufmaßblatt in der Variante `betrieb` als PDF, `probeBlatt`; „Noch einmal ausprobieren“); „Fertig“ führt dort zu den Paketen. Auf einer echten Instanz (KONFIG.instanz vom Server) gibt es die Testansicht nicht.
 
-Kontakt und „Prüfen und senden“ einer Instanz (28.10.2026, Inhaber: „Nimm das neue Design“): Die Folie mit den Kontaktdaten (`instAnfrage3`) steht im Rahmen der Abschluss-Folien wie der Kontakt im Kundenlink (Bühne mit dem Blatt und dem Namen des Betriebs im Kopfband), mit den Pflichtfeldern, den Fehlern am Feld (`kontaktPruefen`) und „Prüfen und senden“; „Prüfen und senden“ (`SCREENS.blatt`) geht auch auf Instanzen durch `abRahmen`. Die Bestätigung (`instGesendet`) ist eine eigene Folie im Look der Design-DNA (docs/GESTALTUNG.md). Startseite und Fensterliste einer Instanz sind noch im bisherigen Look (Überarbeitung folgt auf Wort des Inhabers).
+Kontakt einer Instanz (28.10.2026, Inhaber: „Nimm das neue Design“; „Eigentlich ist das hier die letzte Folie, und da sollte stehen: an Fensterbauer schicken“): Die Folie mit den Kontaktdaten (`instAnfrage3`) steht im Rahmen der Abschluss-Folien wie der Kontakt im Kundenlink (Bühne mit dem Blatt und dem Namen des Betriebs im Kopfband), mit den Pflichtfeldern und den Fehlern am Feld (`kontaktPruefen`). Sie ist auf der Website einer Instanz die letzte Folie: Ihre Pille „An <Betrieb> senden“ (`kontakt-senden`) prüft den Kontakt und sendet; was „Prüfen und senden“ zeigte (Fenster ohne vollständige Maße, angefangenes Fenster mit Rückfrage, was nach dem Senden kommt), steht auf ihr. „Prüfen und senden“ (`SCREENS.blatt`, Einladungen ohne Kontaktschritt) geht auch auf Instanzen durch `abRahmen`. Nach dem Senden steht oben drei Sekunden die Versandmeldung „An <Betrieb> gesendet“ (`S.sendMeldung`). Die Bestätigung (`instGesendet`) ist eine eigene Folie im Look der Design-DNA (docs/GESTALTUNG.md). Startseite und Fensterliste einer Instanz sind noch im bisherigen Look (Überarbeitung folgt auf Wort des Inhabers).
 
 ### Zustände und was sie bedeuten
 

diff --git a/docs/GESTALTUNG.md b/docs/GESTALTUNG.md
@@ -582,9 +582,12 @@ Wünsche (`frageDna`), Schritt 1 „Was planst du?“ (`startDna`) und Schritt 2
     Infobereich in der ersten Folie“, keine Karte über der Startseite des Betriebs): `/app/?ausprobieren[=<paket>]` beginnt mit der
     Folie „Was planst du?“ (Fensterbau Brandt, Merkmale des Pakets). Der Infobereich steht in der Folie als Anthrazit-Fläche mit
     Lichtkante und violettem Punkt am Etikett (Telefon zwischen Bühne und Kacheln, Laptop oben in der rechten Spalte), im Kopf jeder
-    Folie „Testansicht“ unter dem Namen, bei den Kontaktdaten eine Zeile. Am Ende die Bestätigung des Kunden mit dem Infobereich
-    „Testansicht · Ende“ unter der Überschrift; auf Wunsch eine DNA-Folie mit dem Blatt auf der Bühne und der E-Mail an den Betrieb als
-    einziger weißer Karte. Ablauf und Technik in docs/INSTANZEN.md.
+    Folie „Testansicht“ unter dem Namen, bei den Kontaktdaten eine Zeile. Die Kontaktfolie ist die letzte Folie („An Fensterbau Brandt
+    senden“), danach „Wird gesendet …“ und die Versandmeldung als Glas-Chip oben (drei Sekunden). Am Ende die Bestätigung des Kunden und
+    unter der Überschrift die Auswahl für den Fensterbauer („Ihr Konfigurator. Ihre Anfragen.“): eine große Anthrazit-Karte „Pakete
+    ansehen“ mit violettem Licht unter dem weißen runden Knopf und dem Preis aus pakete.js, darunter zwei kleinere Karten mit Ring-Knopf;
+    sie treten nach dem Senden einmal nacheinander auf (460 ms, 90 ms Versatz). Auf Wunsch eine DNA-Folie mit dem Blatt auf der Bühne und
+    der E-Mail an den Betrieb als einziger weißer Karte. Ablauf und Technik in docs/INSTANZEN.md.
   - Bestätigung nach dem Senden einer Instanz („Danke, gesendet.“, `instGesendet`, Wunsch des Inhabers, 28.10.2026): Rahmen der
     Abschluss-Folien. Bühne mit dem Aufmaßblatt im Fensterlicht (Kopfband mit dem Namen des Betriebs, Maße verdeckt wie in der
     Durchschrift), Chip „Gesendet“, Etikett mit der Nummer. Rechts Nummer mit violettem Punkt, „Danke, gesendet.“ mit zweiter Stimme,

diff --git a/docs/profis/2026-10-28-testansicht.md b/docs/profis/2026-10-28-testansicht.md
@@ -45,6 +45,19 @@
 | Bestätigung, Testansicht | Infobereich „Testansicht · Ende“: zuerst „So käme die Anfrage bei Ihnen an“, dann „Pakete ansehen“, „Noch einmal ausprobieren“; „Fertig“ führt zur Seite für Fensterbauer | Verkauf | G 5:1 behalten, F 4:2 behalten (Inhaber: Betriebsansicht zuerst) | geändert: Reihenfolge |
 | Testansicht | Anrede „du“ wie in den Folien | Seriosität | Veto F (Petra Lindqvist: du und Sie gemischt) | umgesetzt für die Testansicht |
 
+## Nachtrag: Kontakt als letzte Folie, Versandmeldung, Auswahl für Fensterbauer
+
+Inhaber (12:47): „Eigentlich ist das hier die letzte Folie, und da sollte stehen: an Fensterbauer schicken. Und dann sollte da diese
+Benachrichtigung stehen, dass es versandt wurde, und dann diese ganzen Sachen wie Danke, gesendet etc. Mit Auswahlmöglichkeiten, wie man
+jetzt weitermacht, visuell ansprechend, dass die Fensterbauer animiert werden, zu der Paketeansicht zu kommen.“
+
+| Wo | Was | Warum | Stand |
+| --- | --- | --- | --- |
+| Kontakt (Website einer Instanz) | Pille „An <Betrieb> senden“ sendet direkt; Hinweise aus „Prüfen“ (fehlende Maße, angefangenes Fenster, was danach kommt) stehen auf der Folie | Wunsch des Inhabers; DNA: keine Zwischenschritte, die nur bestätigen | neu |
+| Nach dem Senden | „Wird gesendet …“ auf der Pille, dann Versandmeldung „An <Betrieb> gesendet“ als Glas-Chip oben, drei Sekunden | Rückmeldung | neu |
+| Bestätigung, Testansicht | „Ihr Konfigurator. Ihre Anfragen.“: große Karte „Pakete ansehen“ (#pakete, ab … im Monat aus pakete.js, keine Mindestlaufzeit), „So kommt die Anfrage bei Ihnen an“, „Noch einmal ausprobieren“; treten einmal nacheinander auf | Verkauf, Wunsch des Inhabers | neu |
+| Bestätigung, Testansicht | „Fertig“ führt zu den Paketen | Verkauf | geändert |
+
 ## Gremium (eine Runde, drei Agenten, blind X/Y)
 
 - **Gestalter:**
